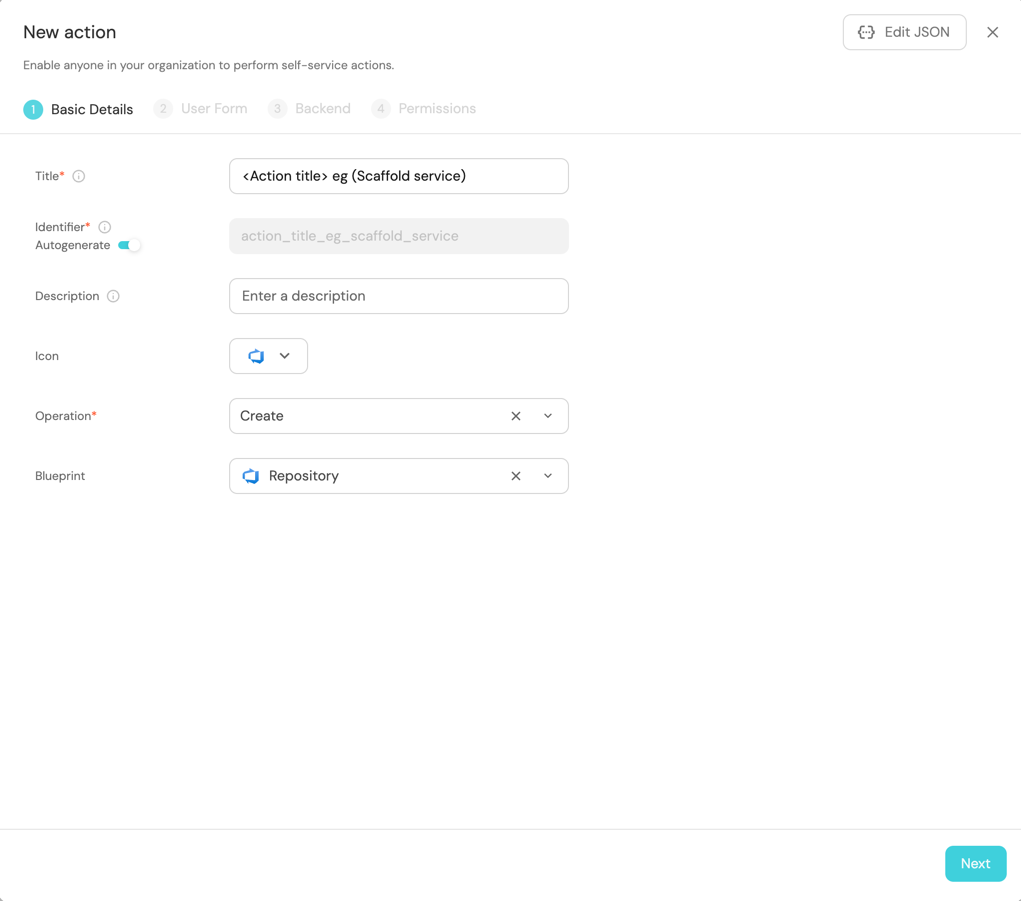
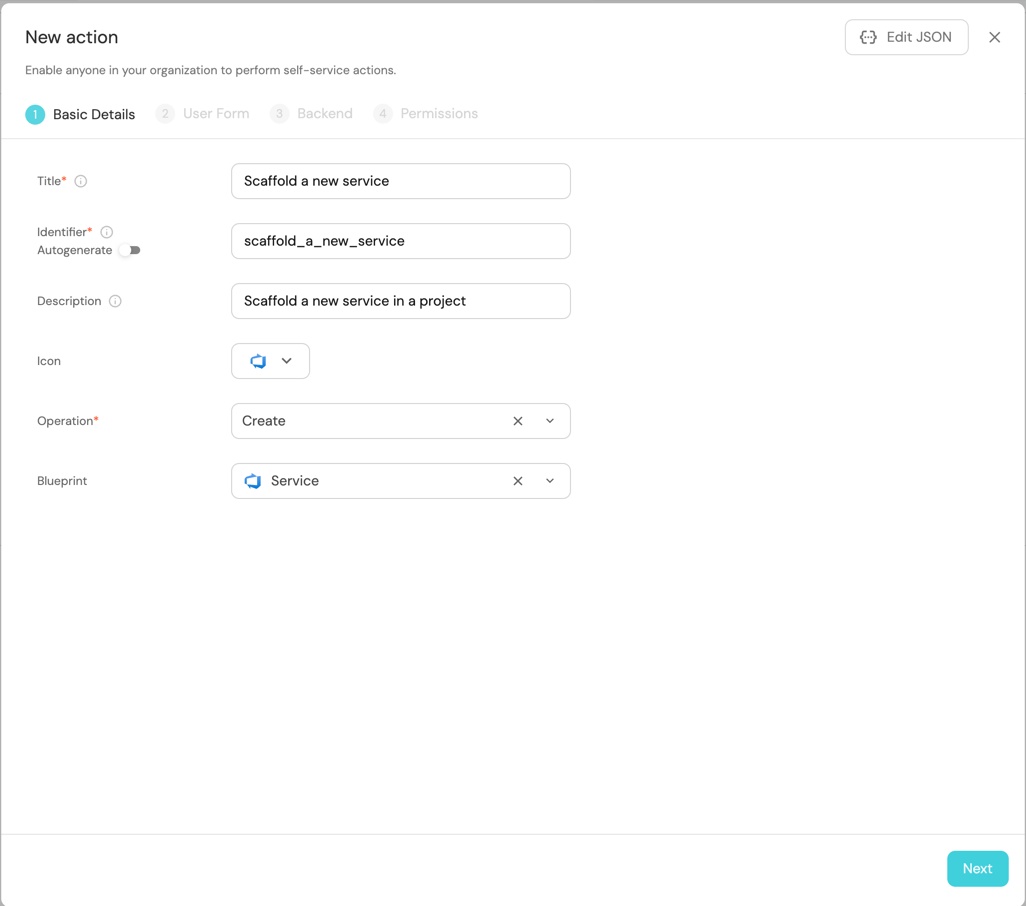
- changed repository to service for ado target blueprint - changed images to reflect this

diff --git a/docs/guides/all/scaffold-a-new-service.md b/docs/guides/all/scaffold-a-new-service.md
@@ -70,7 +70,7 @@ After completing it, you will get a sense of how it can benefit different person
 
     <img src='/img/guides/scaffoldAddAction.png' width='35%' border='1px' />
 
-3. Fill the basic form with the **Title** and **Description** and select `Create` and `Repository` for the **Operation** and **Blueprint** respectively.
+3. Fill the basic form with the **Title** and **Description** and select `Create` and `Service` for the **Operation** and **Blueprint** respectively.
 
     <img src='/img/guides/scaffoldActionADODetails.png' width='70%' border='1px' />
     <br/>
